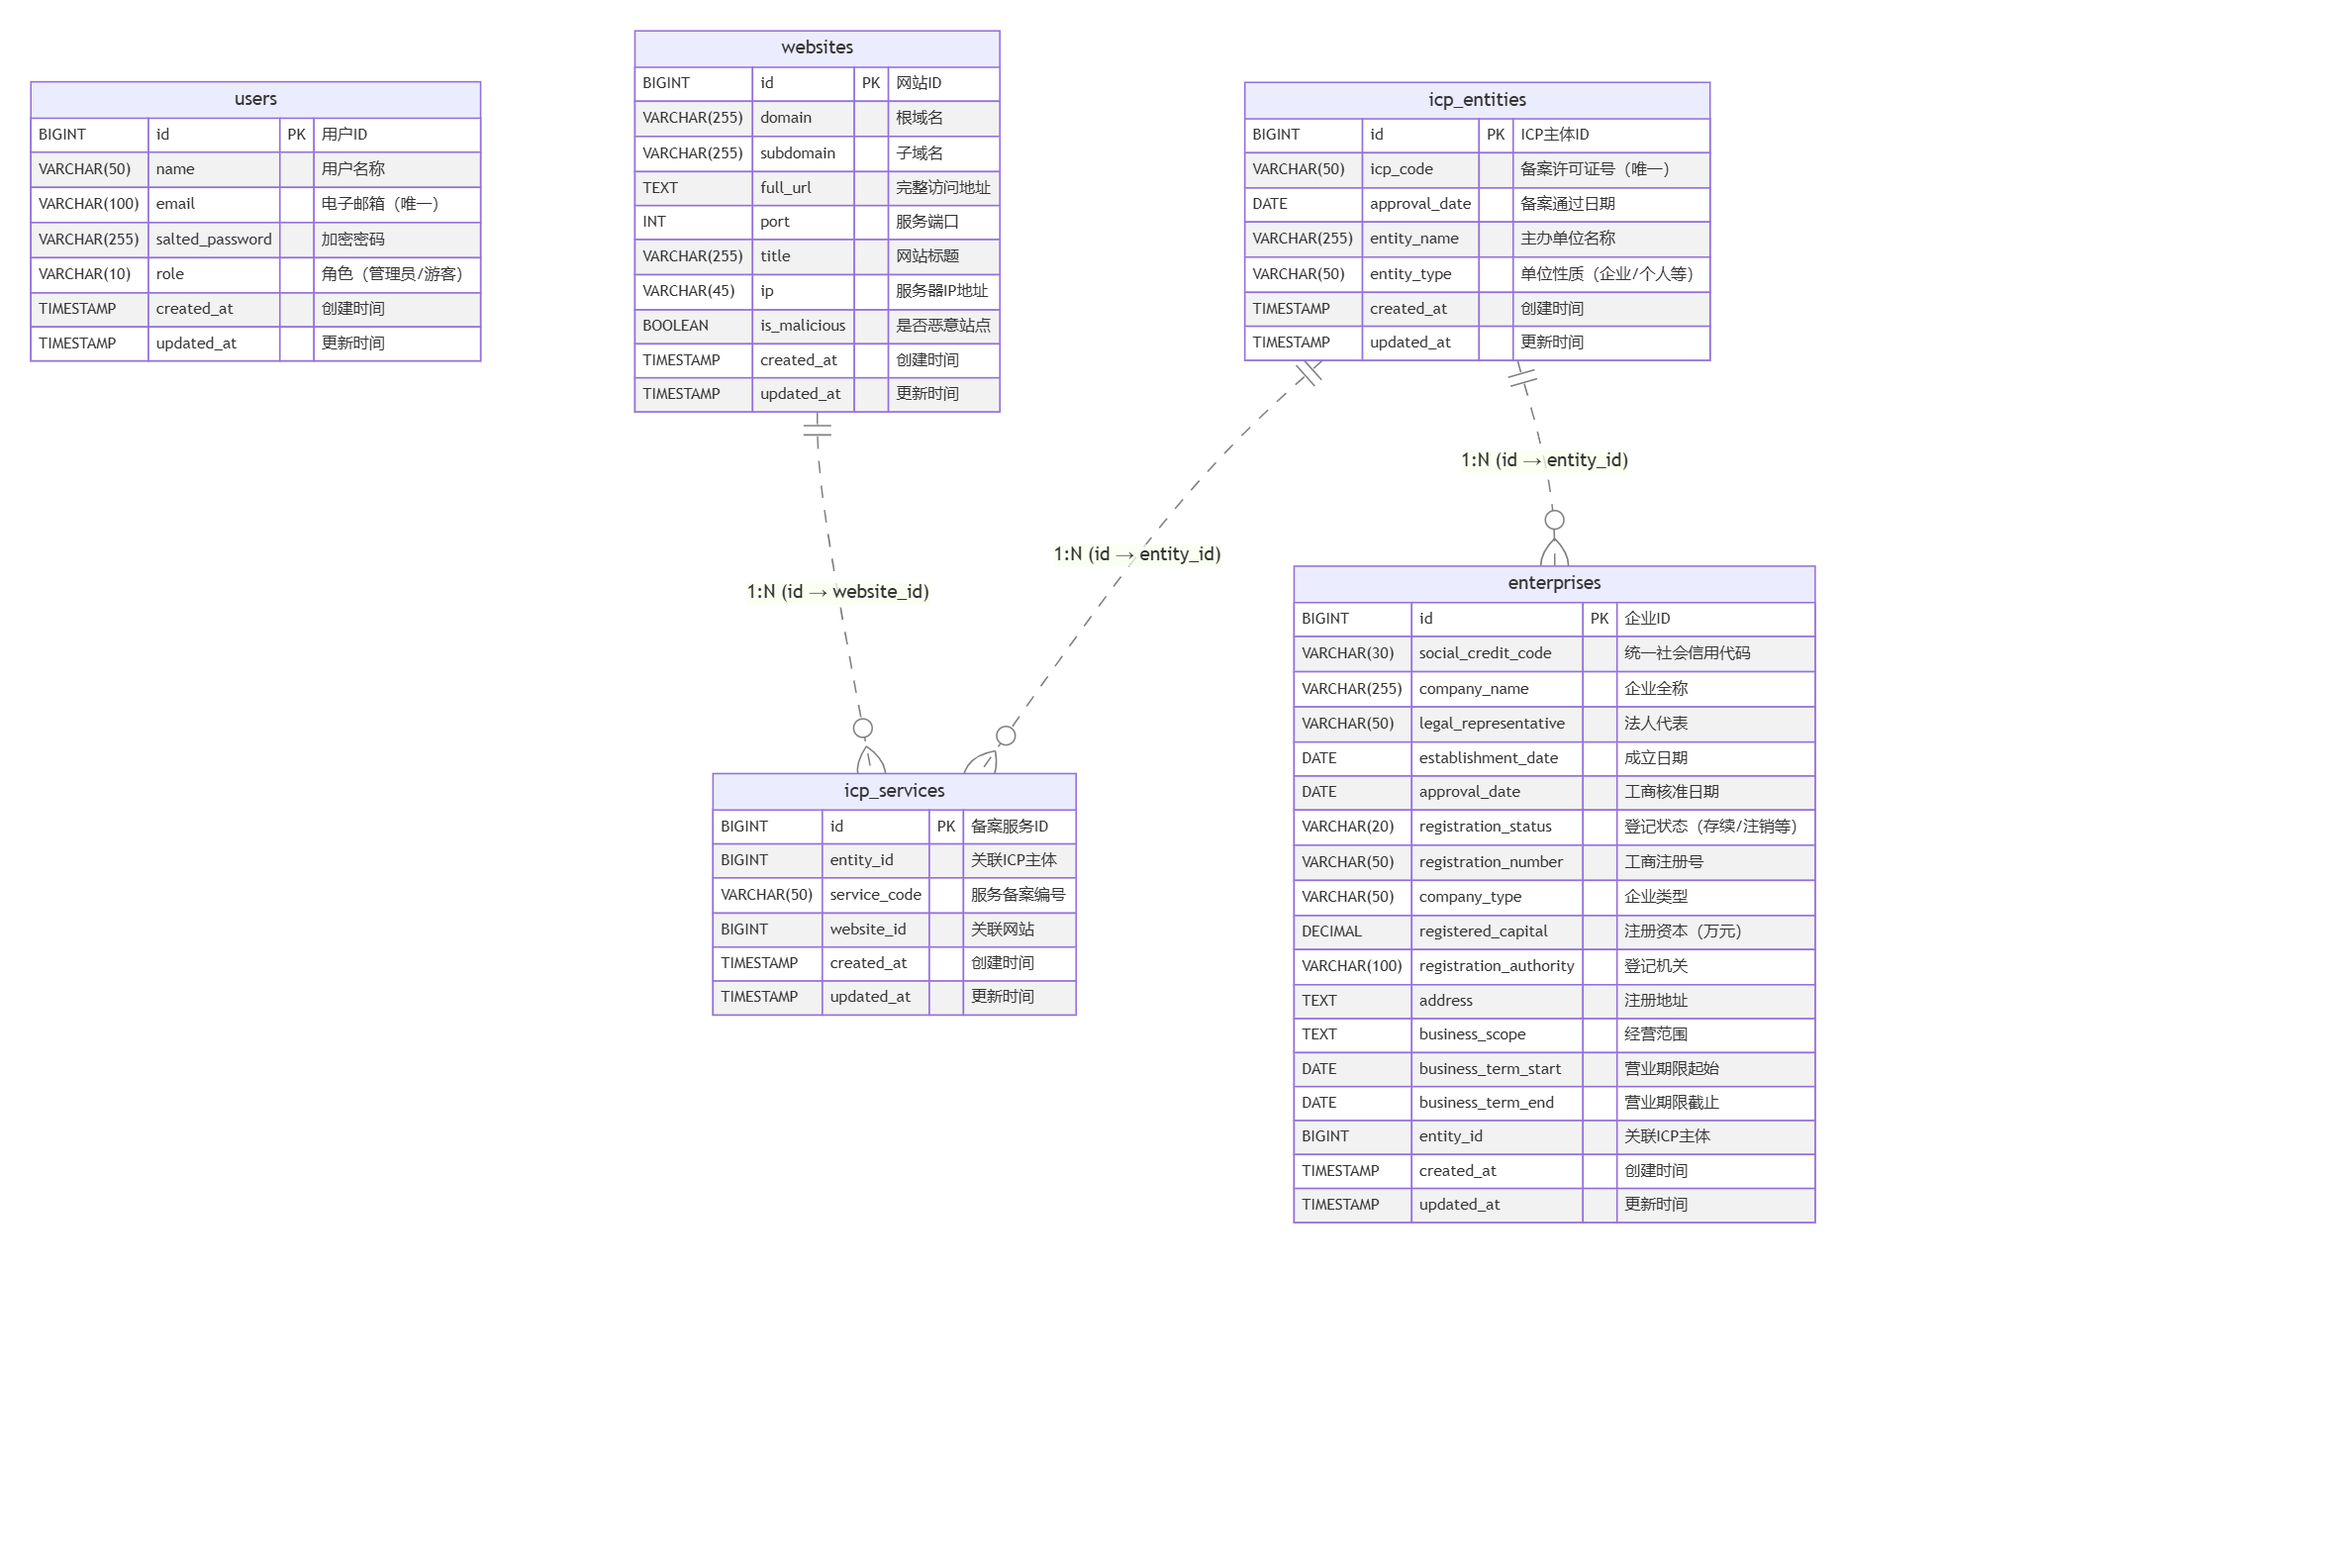
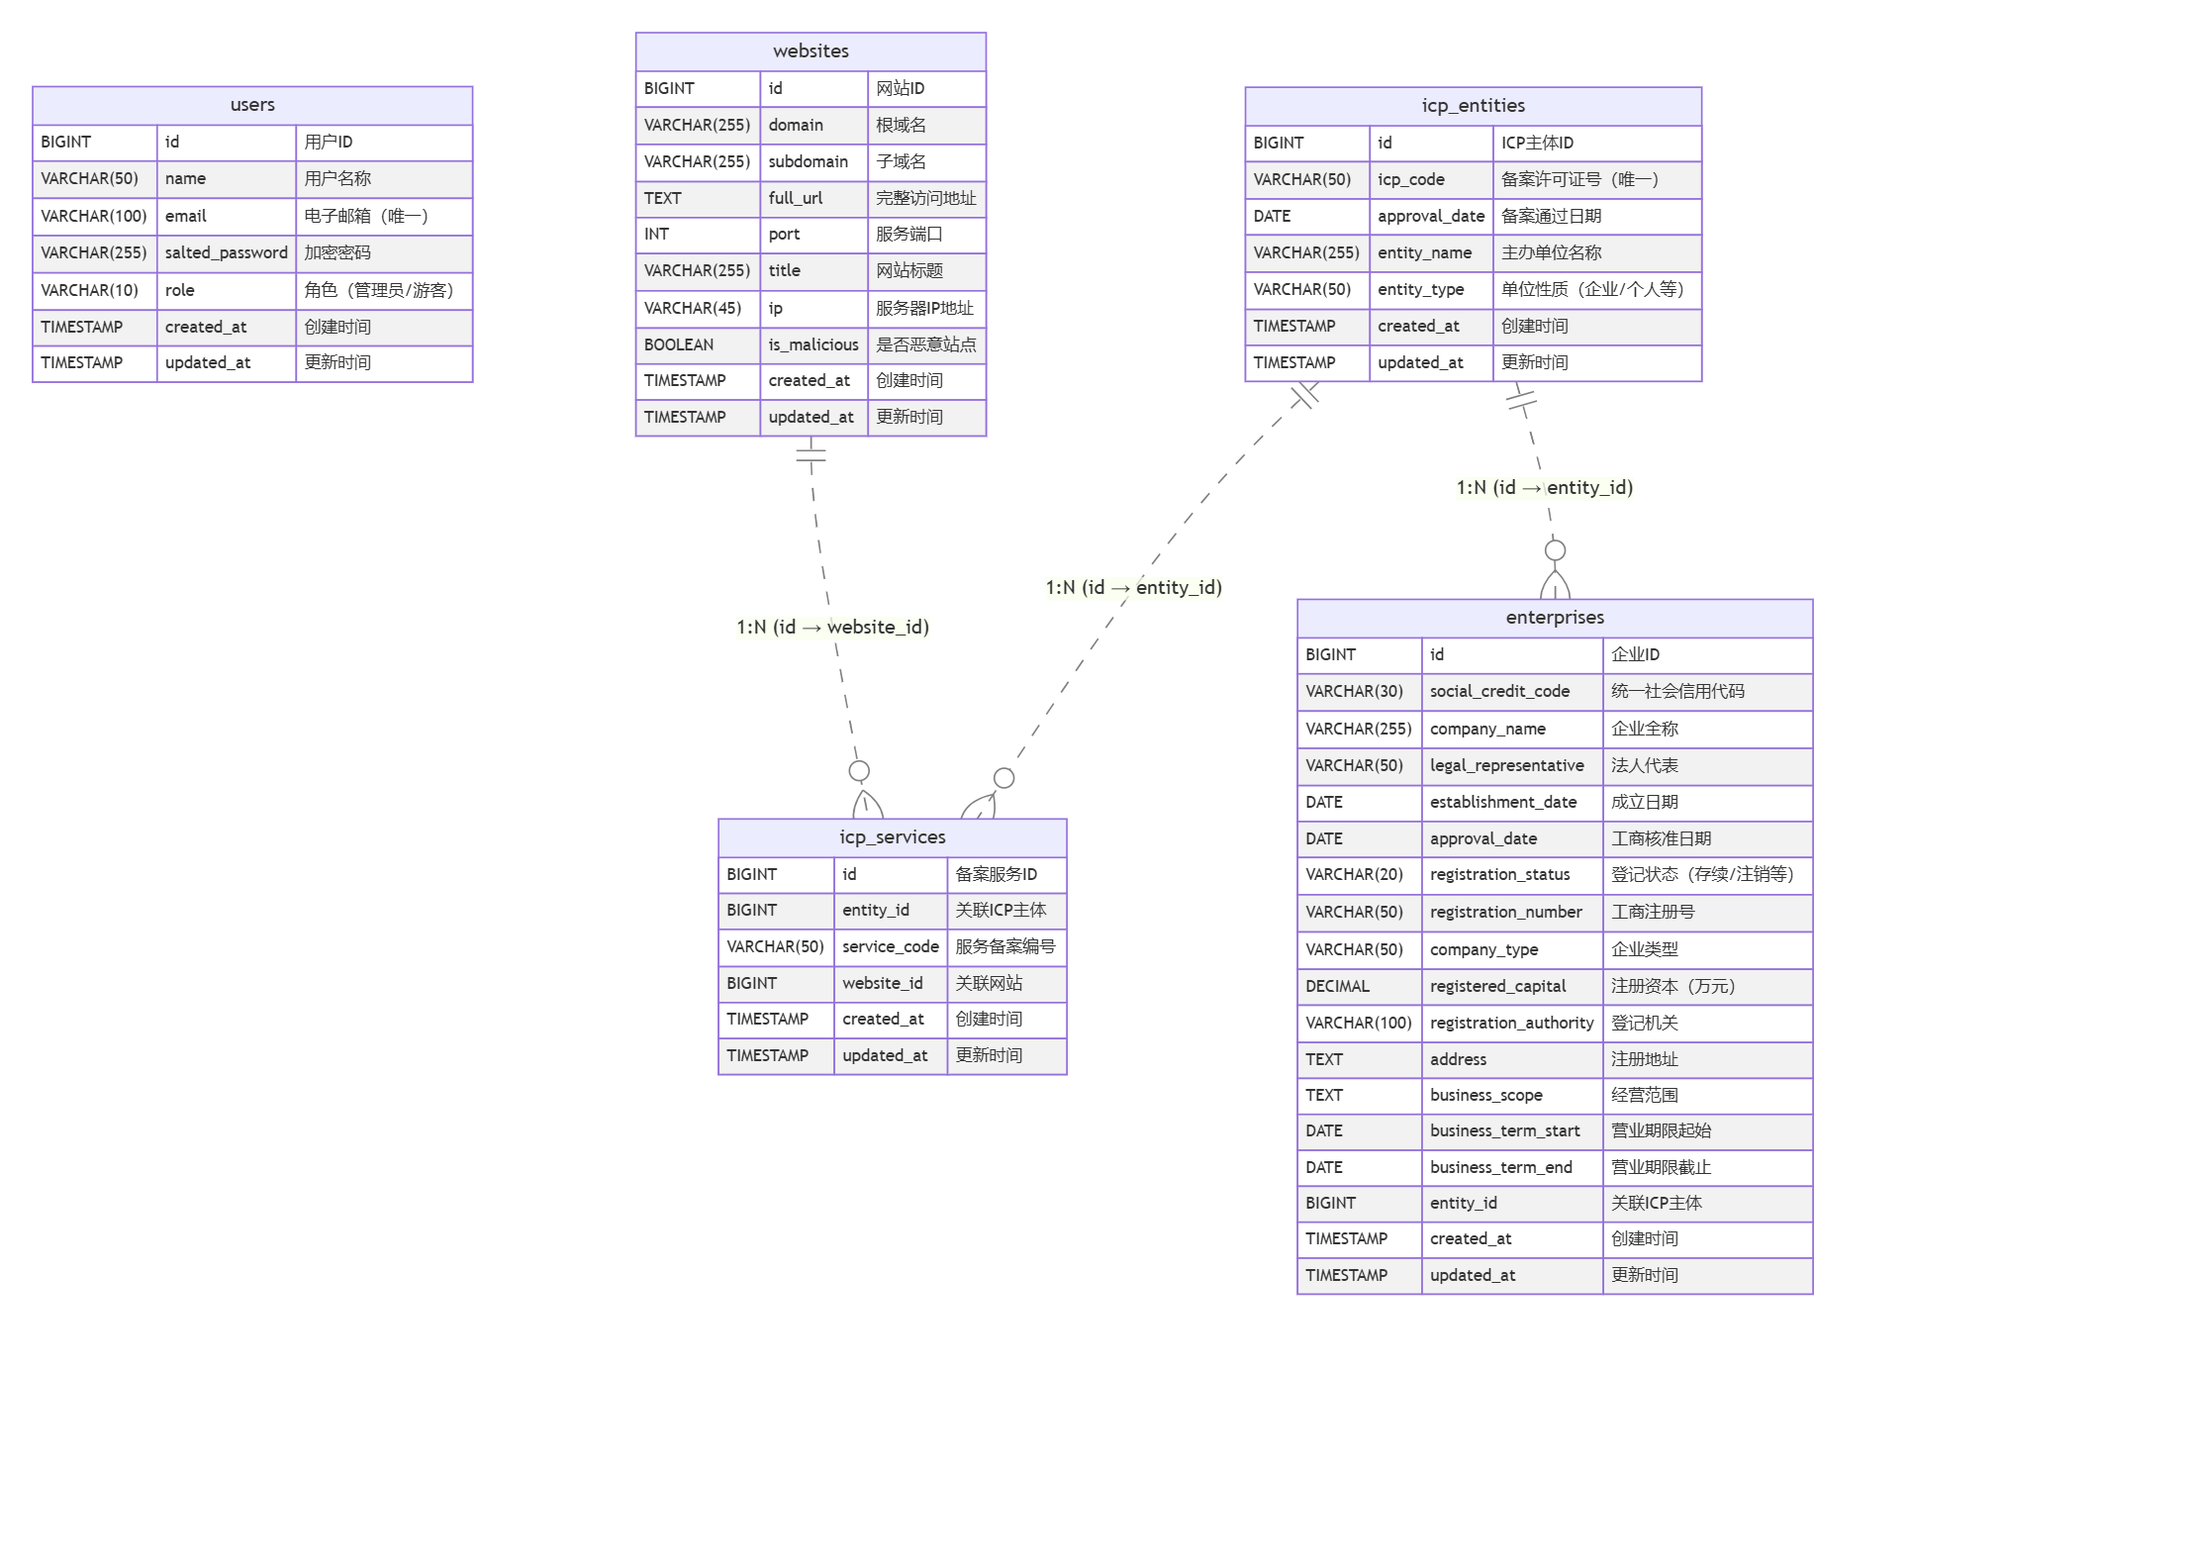
er图完成

diff --git a/Others/mysql/数据库设计.md b/Others/mysql/数据库设计.md
@@ -158,7 +158,7 @@ CREATE TABLE enterprises (
 ```mermaid   
 erDiagram
     users {
-        BIGINT id PK "用户ID"
+        BIGINT id  "用户ID"
         VARCHAR(50) name "用户名称"
         VARCHAR(100) email "电子邮箱（唯一）"
         VARCHAR(255) salted_password "加密密码"
@@ -168,7 +168,7 @@ erDiagram
     }
 
     websites {
-        BIGINT id PK "网站ID"
+        BIGINT id  "网站ID"
         VARCHAR(255) domain "根域名"
         VARCHAR(255) subdomain "子域名"
         TEXT full_url "完整访问地址"
@@ -181,7 +181,7 @@ erDiagram
     }
 
     icp_entities {
-        BIGINT id PK "ICP主体ID"
+        BIGINT id  "ICP主体ID"
         VARCHAR(50) icp_code "备案许可证号（唯一）"
         DATE approval_date "备案通过日期"
         VARCHAR(255) entity_name "主办单位名称"
@@ -191,7 +191,7 @@ erDiagram
     }
 
     icp_services {
-        BIGINT id PK "备案服务ID"
+        BIGINT id  "备案服务ID"
         BIGINT entity_id "关联ICP主体"
         VARCHAR(50) service_code "服务备案编号"
         BIGINT website_id "关联网站"
@@ -200,7 +200,7 @@ erDiagram
     }
 
     enterprises {
-        BIGINT id PK "企业ID"
+        BIGINT id  "企业ID"
         VARCHAR(30) social_credit_code "统一社会信用代码"
         VARCHAR(255) company_name "企业全称"
         VARCHAR(50) legal_representative "法人代表"
